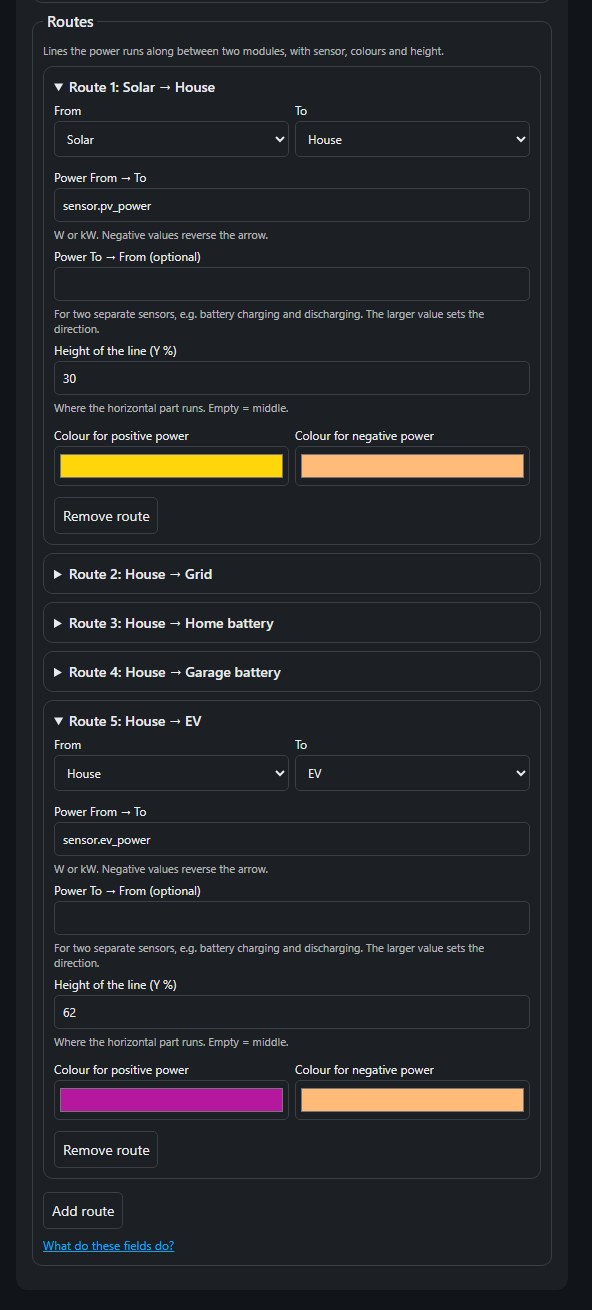
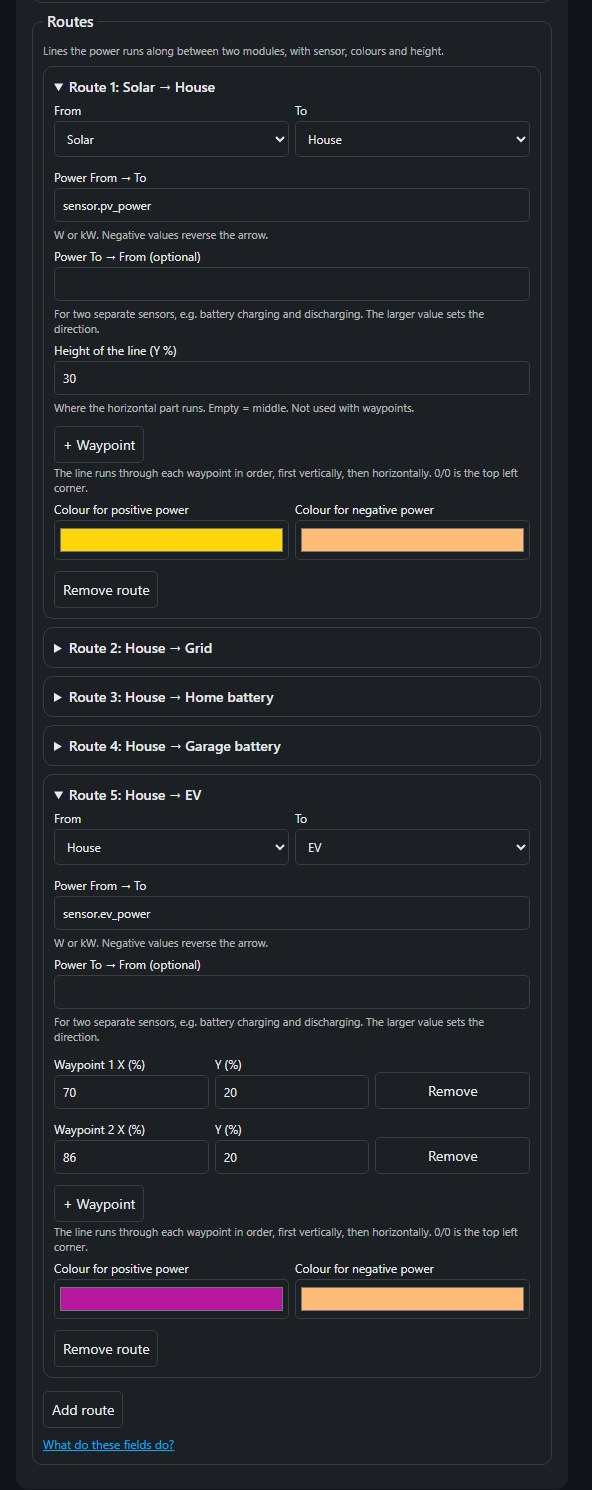
Route waypoints, room label names, simpler entity fields (0.33.0)
- Routes take any number of waypoints (points: [{x, y}] in %); the line
  runs through them at right angles
- Rooms: optional room name row in the label, own name per entity and
  name on/off per entity (names, showNames, showRoomName)
- Editor: area/device filters removed, all entities are suggested and
  the text input narrows them; weather and vehicle sensors one below
  the other; fields in a row align at the top
- README and example pictures updated

Claude-Session: https://claude.ai/code/session_016kjt6bPp7oqnfqhW3oJgZ4

diff --git a/dist/dynamic-energy-house-card.js b/dist/dynamic-energy-house-card.js
@@ -1,5 +1,5 @@
 // Energy House Card · native Home Assistant dashboard component
-const ENERGY_HOUSE_VERSION = "0.32.0";
+const ENERGY_HOUSE_VERSION = "0.33.0";
 const DOCS_URL = "https://github.com/pfalzcraft/dynamic-energy-house-card";
 const TYPES = {house:"House",grid:"Grid",pv:"Solar",battery:"Battery",ev:"Vehicle",water:"Water",room:"Room",climate:"Grid CO₂",device:"Device"};
 const COLORS = {house:"#f4bd86",grid:"#a7bbf0",pv:"#f2ce72",battery:"#80dbc2",ev:"#86cfef",water:"#93d3f5",room:"#d9c6aa",climate:"#c1d2b1",device:"#e7a9d6"};
@@ -319,11 +319,13 @@ function photoScene(c,states,history={},previousLevels={}){
     // Room: one row per entity, stacked; a tap on a row opens that entity's HA dialog.
     if(n.kind==="room"&&labelled(n)&&roomEntities(n).length){
       const ids=[n.entity,...roomEntities(n)].filter(Boolean);
-      const rows=ids.map(id=>{const name=states[id]?.attributes.friendly_name||id,v=id===n.entity?reading(states[id]):roomSummary({kind:"room",entities:[id]},states);
-        return [id,name,ids.length>1?`${name.slice(0,16)} ${v}`:v];});
+      const rows=ids.map(id=>{const name=entityName(n,id,states),v=id===n.entity?reading(states[id]):roomSummary({kind:"room",entities:[id]},states);
+        // Without a choice the name is shown when the room has several entities.
+        return [id,name,(n.showNames?.[id]??ids.length>1)?`${n.names?.[id]?name:name.slice(0,16)} ${v}`:v];});
+      if(n.showRoomName==="yes")rows.unshift(["",n.name||"",n.name||""]);
       const width=Math.min(285,Math.max(...rows.map(([,,v])=>20+[...v].length*9.5)));
       const left=Math.max(2,Math.min(898-width,x-width/2)),top=Math.max(2,Math.min(H-34*rows.length,y-1-34*rows.length));
-      return hit(n,`<path d="M${x} ${y}v-8" stroke="white"/>`+rows.map(([id,name,v],i)=>`<foreignObject x="${left}" y="${top+i*34}" width="${width}" height="32"><div xmlns="http://www.w3.org/1999/xhtml" class="pinlabel" data-more="${esc(id)}" title="${esc(name)}"><span>${esc(v)}</span></div></foreignObject>`).join(""));
+      return hit(n,`<path d="M${x} ${y}v-8" stroke="white"/>`+rows.map(([id,name,v],i)=>`<foreignObject x="${left}" y="${top+i*34}" width="${width}" height="32"><div xmlns="http://www.w3.org/1999/xhtml" class="pinlabel" ${id?`data-more="${esc(id)}"`:""} title="${esc(name)}"><span>${esc(v)}</span></div></foreignObject>`).join(""));
     }
     if(labelled(n)){
       const text=m=>{const show=m.showState==="yes"||(m.showState==null&&(m.pinText||m.showName==="yes"));
@@ -448,14 +450,16 @@ function waterText(n,totals){
   return n.waterUnit==="L"?pretty(v*1000,1)+" L":pretty(v,3)+" m³";
 }
 // Orthogonal elbow: vertical at both ends, horizontal in between, at the route's own height
-// (y in % of the picture) or halfway. Routes may share lines.
+// (y in % of the picture) or halfway, or through the route's waypoints. Routes may share lines.
 function directPaths(routes,where,H=600){
   const paths=new Map();
   for(const r of routes){
     if(!routeMeasured(r)||r.from===r.to||!where.has(r.from)||!where.has(r.to))continue;
     const a=where.get(r.from),b=where.get(r.to),own=parseFloat(r.y);
     const mid=Number.isFinite(own)?Math.min(98,Math.max(2,own))*H/100:(a[1]+b[1])/2;
-    paths.set(r,`M${a[0]} ${a[1]} V${mid} H${b[0]} V${b[1]}`);
+    // Waypoints (x/y in %) are reached vertically, then horizontally; the line leaves and enters modules vertically.
+    const pts=(r.points||[]).map(p=>[parseFloat(p.x),parseFloat(p.y)]).filter(p=>p.every(Number.isFinite)).map(([x,y])=>[Math.min(98,Math.max(2,x))*9,Math.min(98,Math.max(2,y))*H/100]);
+    paths.set(r,pts.length?`M${a[0]} ${a[1]} ${pts.map(([x,y])=>`V${y} H${x}`).join(" ")} H${b[0]} V${b[1]}`:`M${a[0]} ${a[1]} V${mid} H${b[0]} V${b[1]}`);
   }
   return paths;
 }
@@ -507,6 +511,7 @@ function weatherLine(c,s){
   return parts.join(" · ");
 }
 const roomEntities=n=>n.kind==="room"?(n.entities||[]).filter(Boolean):[];
+const entityName=(n,id,s)=>n.names?.[id]||s[id]?.attributes.friendly_name||id;
 // group.* is unpacked into its members, light and cover groups count their members themselves.
 const members=(id,s)=>{const list=s[id]?.attributes.entity_id;return Array.isArray(list)?list:[id]};
 function roomSummary(n,s){
@@ -527,7 +532,7 @@ function roomSummary(n,s){
 // One button per room entity: switch it or open/close it, everything else opens its HA dialog.
 function roomButtons(n,s,busy){
   return roomEntities(n).map(id=>{
-    const st=s[id],name=esc(st?.attributes.friendly_name||id),off=busy||!st?"disabled":"";
+    const st=s[id],name=esc(entityName(n,id,s)),off=busy||!st?"disabled":"";
     if(id.startsWith("cover."))return `<button data-entity="${esc(id)}" data-service="cover.open_cover" ${off}>${name} ▲</button><button data-entity="${esc(id)}" data-service="cover.close_cover" ${off}>${name} ▼</button>`;
     if(/^(light|switch|fan|input_boolean|group)\./.test(id))return `<button data-entity="${esc(id)}" data-service="homeassistant.toggle" aria-pressed="${st?.state==="on"}" ${off}>${name}: ${st?.state==="on"?"on":"off"}</button>`;
     return `<button data-more="${esc(id)}">${name}</button>`;
@@ -742,7 +747,7 @@ class EnergyHouse extends HTMLElement{
   }
 }
 const editorCss=`
-:host{display:block;color:var(--primary-text-color,#243830);font:14px system-ui}fieldset,details{border:1px solid var(--divider-color,#b2c3b9);border-radius:10px;margin:8px 0;padding:10px}summary{cursor:pointer;font-weight:600}label{display:grid;gap:3px;font-size:12px;margin:6px 0}input,select,button{font:inherit;color:inherit;background:var(--card-background-color,#fff);padding:8px;border-radius:5px;border:1px solid var(--divider-color,#a7b5ac);max-width:100%;box-sizing:border-box}button{cursor:pointer;margin:5px 4px 0 0}.pair{display:grid;grid-template-columns:repeat(auto-fit,minmax(135px,1fr));gap:6px}.pair>label{min-width:0}label>input,label>select{width:100%}input[type=color]{height:40px;padding:3px}small{display:block;margin:5px 0}.hint{opacity:.72;font-size:11px;margin:2px 0 0}details.section>summary{font-size:15px}details.sub{padding:6px 10px;margin:6px 0}details.sub>summary{font-weight:500;font-size:13px}legend{font-weight:600;font-size:15px;padding:0 4px}a{color:var(--primary-color,#03a9f4)}a.help{display:block;font-size:12px;margin:8px 0 2px}`;
+:host{display:block;color:var(--primary-text-color,#243830);font:14px system-ui}fieldset,details{border:1px solid var(--divider-color,#b2c3b9);border-radius:10px;margin:8px 0;padding:10px}summary{cursor:pointer;font-weight:600}label{display:grid;align-content:start;gap:3px;font-size:12px;margin:6px 0}.entity{border-top:1px solid var(--divider-color,#b2c3b9);margin-top:8px;padding-top:4px}input,select,button{font:inherit;color:inherit;background:var(--card-background-color,#fff);padding:8px;border-radius:5px;border:1px solid var(--divider-color,#a7b5ac);max-width:100%;box-sizing:border-box}button{cursor:pointer;margin:5px 4px 0 0}.pair{display:grid;grid-template-columns:repeat(auto-fit,minmax(135px,1fr));gap:6px}.pair>label{min-width:0}.pair>button{align-self:end;margin:0 0 6px}label>input,label>select{width:100%}input[type=color]{height:40px;padding:3px}small{display:block;margin:5px 0}.hint{opacity:.72;font-size:11px;margin:2px 0 0}details.section>summary{font-size:15px}details.sub{padding:6px 10px;margin:6px 0}details.sub>summary{font-weight:500;font-size:13px}legend{font-weight:600;font-size:15px;padding:0 4px}a{color:var(--primary-color,#03a9f4)}a.help{display:block;font-size:12px;margin:8px 0 2px}`;
 class HouseEditor extends HTMLElement{
   constructor(){super();this.root=this.attachShadow({mode:"open"});this.root.addEventListener("change",e=>this.change(e));this.root.addEventListener("click",e=>this.click(e));this.open=new Set(["general"]);}
   setConfig(c){if(JSON.stringify(this.c)===JSON.stringify(c))return;this.c=structuredClone({...stub(),...c});this.draw()}
@@ -758,38 +763,35 @@ class HouseEditor extends HTMLElement{
     const details=(key,title,content,attr="",sub=false)=>`<details data-key="${esc(key)}" ${sub?'class="sub"':""} ${attr} ${this.open.has(key)?"open":""}><summary>${esc(title)}</summary>${content}</details>`;
     const section=(key,title,content)=>details(key,title,content,'class="section"');
     const helpLink=anchor=>`<a class="help" href="${DOCS_URL}#${anchor}" target="_blank" rel="noreferrer">What do these fields do?</a>`;
-    const states=Object.keys(h.states), areas=Object.values(h.areas||{}),devices=Object.values(h.devices||{}), ent=h.entities||{};
-    const areaOf=id=>ent[id]?.area_id || h.devices?.[ent[id]?.device_id]?.area_id;
+    const states=Object.keys(h.states);
     const colors=obj=>[["positiveColor","Colour for positive power",1],["negativeColor","Colour for negative power",-1]].map(([key,title,sign])=>`<label>${title}<input type="color" data-key="${key}" value="${routeColor(obj,sign)}"></label>`).join("");
     const modules=c.nodes.map((n,i)=>{
-      const devs=devices.filter(d=>!n.area||d.area_id===n.area||Object.values(ent).some(e=>e.device_id===d.id&&e.area_id===n.area));
-      const ids=states.filter(id=>(!n.area||areaOf(id)===n.area)&&(!n.device||ent[id]?.device_id===n.device));
+      const ids=states;
       const electric=["pv","ev","grid","device"].includes(n.kind);
       const lid="s"+i,pct=list(lid+"pct",ids.filter(id=>h.states[id].attributes.unit_of_measurement==="%")),kwh=list(lid+"kwh",ids.filter(id=>["Wh","kWh","MWh"].includes(h.states[id].attributes.unit_of_measurement)));
       const meter=(label,key)=>field(label,key,n[key],lid+"kwh","Energy meter in Wh or kWh that only counts up. Used for every period except “Now”.");
-      const filter=n.kind==="house"?"":'<div class="pair">'+choose("Suggest entities from area","area",n.area||"",[["","All areas"],...areas.map(a=>[a.area_id,a.name])])+choose("… and device","device",n.device||"",[["","All devices"],...devs.map(d=>[d.id,d.name_by_user||d.name||d.id])])+"</div>";
       const readings=
         n.kind==="house"?hint("No sensor needed. House consumption = solar + grid import − export + battery discharge − battery charge − vehicle charging. The tile shows how much of it no device explains (“Unassigned”)."):
         n.kind==="battery"?field("State of charge","soc",n.soc,lid+"pct","Sensor in %.")+meter("Charged · energy meter","charged")+meter("Discharged · energy meter","discharged")+hint("Live charging power comes from the routes that start or end at this battery.")+pct+kwh:
         n.kind==="climate"?field("Fossil share of grid power","entity",n.entity,lid+"pct","Sensor in % from the “Electricity Maps” integration (as in the HA energy dashboard).")+field("CO₂ intensity (optional)","co2",n.co2,lid,"Shown as an extra line in the tile.")+hint("Shows how much of the house consumption was low-carbon. Needs the import meter on the grid module.")+pct+list(lid,ids):
         n.kind==="room"?choose("Floor","floor",n.floor||"EG",[["UG","Basement"],["EG","Ground floor"],["OG","Upper floor"],["DG","Attic"],...(n.floor&&!["UG","EG","OG","DG"].includes(n.floor)?[[n.floor,n.floor]]:[])],"Places the room in the picture and in the schematic floor plan.")+
-          (n.entities||[]).map((id,j)=>`<div class="pair"><label>Entity or group<input data-ent="${j}" value="${esc(id)}" list="${lid}room"></label><button data-delent="${j}">Remove</button></div>`).join("")+
-          '<button data-addent>+ Entity</button>'+hint("Lights, covers, switches, climate or sensors, or groups of them. The label shows lights on, average cover position and temperatures. Tapping the room dot switches its lights and covers.")+
-          // Groups often have no area, so they are offered in every room.
-          list(lid+"room",states.filter(id=>/^(light|cover|group|switch|fan|climate|sensor|input_boolean)\./.test(id)&&(!n.area||!areaOf(id)||areaOf(id)===n.area))):
+          choose("Room name in the label","showRoomName",n.showRoomName||"no",[["no","Off"],["yes","On"]],"Adds the display name as the first row of the room label.")+
+          (n.entities||[]).map((id,j)=>`<div class="entity"><label>Entity or group ${j+1}<input data-ent="${j}" value="${esc(id)}" list="${lid}room"></label><div class="pair"><label>Name in the label<input data-entname="${j}" value="${esc(n.names?.[id]||"")}" placeholder="${esc(h.states[id]?.attributes.friendly_name||"")}"></label><label>Show name<select data-entshow="${j}">${[["","Automatic"],["yes","On"],["no","Off"]].map(([v,l])=>`<option value="${v}" ${(n.showNames?.[id]===true?"yes":n.showNames?.[id]===false?"no":"")===v?"selected":""}>${l}</option>`).join("")}</select></label></div><button data-delent="${j}">Remove entity</button></div>`).join("")+
+          '<button data-addent>+ Entity</button>'+hint("Lights, covers, switches, climate or sensors, or groups of them. The label shows lights on, average cover position and temperatures. An empty name uses the HA name; “Automatic” shows names when the room has several entities.")+
+          list(lid+"room",states.filter(id=>/^(light|cover|group|switch|fan|climate|sensor|input_boolean)\./.test(id))):
         n.kind==="water"?field("Water meter or flow sensor","entity",n.entity,lid,"A meter (m³ or L, counting up) gives the consumption per period, a flow sensor the current flow.")+list(lid,ids)+
           '<div class="pair">'+choose("Show","waterMode",n.waterMode||"",[["","Automatic"],["period","Consumption in the period"],["live","Sensor value"]])+choose("Unit","waterUnit",n.waterUnit||"m³",[["m³","m³"],["L","Litres"]])+"</div>":
         field("Power","entity",n.entity,lid,{grid:"W or kW, positive for import and negative for export.",pv:"Production in W or kW.",ev:"Charging power in W or kW, positive while charging.",device:"Consumption in W or kW."}[n.kind])+list(lid,ids)+
           meter({grid:"Import · energy meter",pv:"Production · energy meter",ev:"Charged · energy meter (optional)",device:"Consumption · energy meter (optional)"}[n.kind],"energy")+
           (n.kind==="grid"?meter("Export · energy meter","exported"):"")+
-          (n.kind==="ev"?field("State of charge (optional)","soc",n.soc,lid,"Shown in the picture label and the tile.")+'<div class="pair">'+field("Battery content (optional)","content",n.content,lid,"kWh or %. Rises count as charged, drops as driven.")+field("Battery capacity in kWh","capacity",n.capacity,"","Only needed when the content is in %.")+"</div>":"")+
+          (n.kind==="ev"?field("State of charge (optional)","soc",n.soc,lid,"Shown in the picture label and the tile.")+field("Battery content (optional)","content",n.content,lid,"kWh or %. Rises count as charged, drops as driven.")+field("Battery capacity in kWh","capacity",n.capacity,"","Only needed when the content is in %."):"")+
           (n.kind==="device"?choose("Show in the picture","scene",n.scene||"",[["","Label only"],["heatpump","Heat pump"],["washer","Washing machine (basement)"],["dryer","Dryer (basement)"]],"Draws the device in the 3D house with basement.")+hint("Devices are part of the house consumption and are not used to calculate it."):"")+kwh;
       const label=field("Icon","icon",n.icon,"pinIcons","An mdi: icon. With an icon or “Show value” the module gets a label in the picture.")+
         choose("Show value","showState",n.showState??(n.pinText||n.showName==="yes"?"yes":"no"),[["no","Off"],["yes","On"]])+
         '<div class="pair">'+field("Position X (%)","x",n.x)+field("Position Y (%)","y",n.y)+"</div>"+hint("Empty = default place. Needed for your own picture: 0/0 is the top left corner.");
       const advanced=(electric?choose("Sign","invert",n.invert?"yes":"no",[["no","As measured"],["yes","Invert"]],"Use “Invert” when your sensor reports the opposite direction."):"")+
         field("Control entity (optional)","control",n.control,"controls","A select, input_select, switch, script or button. Its options appear in the tile; select options are sent only after a second tap.");
-      const html=field("Display name","name",n.name)+filter+readings+
+      const html=field("Display name","name",n.name)+readings+
         details(n.id+":label","Label in the picture",label,"",true)+details(n.id+":more","More options",advanced,"",true)+
         '<button data-delete>Remove module</button>'+helpLink(TYPES[n.kind].toLowerCase().replace("₂","2").replace(/ /g,"-")+"-module");
       return details(n.id,!n.name||n.name===TYPES[n.kind]?TYPES[n.kind]:n.name+" · "+TYPES[n.kind],html,`data-index="${i}"`);
@@ -799,7 +801,9 @@ class HouseEditor extends HTMLElement{
       '<div class="pair">'+choose("From","from",r.from,names)+choose("To","to",r.to,names)+"</div>"+
       field("Power From → To","entity",r.entity,"powerIds","W or kW. Negative values reverse the arrow.")+
       field("Power To → From (optional)","reverse",r.reverse,"powerIds","For two separate sensors, e.g. battery charging and discharging. The larger value sets the direction.")+
-      field("Height of the line (Y %)","y",r.y,"","Where the horizontal part runs. Empty = middle.")+
+      (r.points?.length?"":field("Height of the line (Y %)","y",r.y,"","Where the horizontal part runs. Empty = middle. Not used with waypoints."))+
+      (r.points||[]).map((p,j)=>`<div class="pair"><label>Waypoint ${j+1} X (%)<input data-pt="${j}" data-axis="x" value="${esc(p.x??"")}"></label><label>Y (%)<input data-pt="${j}" data-axis="y" value="${esc(p.y??"")}"></label><button data-delpt="${j}">Remove</button></div>`).join("")+
+      '<button data-addpt>+ Waypoint</button>'+hint("The line runs through each waypoint in order, first vertically, then horizontally. 0/0 is the top left corner.")+
       '<div class="pair">'+colors(r)+"</div>"+'<button data-delroute>Remove route</button>',`data-route="${i}"`)).join("");
     const look=c.view==="diagram"?"diagram":c.look||"cellar";
     this.root.innerHTML=`<style>${editorCss}</style>
@@ -808,20 +812,26 @@ ${section("general","General",field("Card title","title",c.title)+choose("Defaul
 ${section("picture","Picture",choose("Picture style","look",look,[["cellar","3D · house with basement"],["photo","3D rendering"],["blueprint","Blueprint · gable roof"],["flat","Blueprint · flat roof"],["diagram","Schematic floor plan"],["custom","Own picture"]],"The 3D house with basement changes with the seasons and shows heat pump, washer and dryer. The floor plan arranges the rooms by floor.")+
   (look==="custom"?field("Picture URL","image",c.image,"","e.g. /local/house.webp in 3:2 format. Place modules with Position X/Y."):"")+
   choose("Preview buttons","preview",c.preview||"no",[["no","Off"],["yes","On"]],"Buttons below the picture to try time of day, weather and season.")+helpLink("picture-options"))}
-${section("sky","Weather and sky",'<div class="pair">'+field("Weather entity","weather",c.weather,"weatherIds","Clouds, rain, snow, fog, thunderstorms and wind.")+field("Sun","sun",c.sun,"sunIds","Day and night. Usually sun.sun.")+"</div>"+
-  '<div class="pair">'+field("Wind speed (optional)","windSpeed",c.windSpeed,"sensorIds")+field("Wind direction (optional)","windDirection",c.windDirection,"sensorIds")+field("Precipitation (optional)","precipitation",c.precipitation,"sensorIds")+"</div>"+
-  hint("Only needed when you have own sensors; otherwise the weather entity is used.")+helpLink("weather-and-sky-options"))}
+${section("sky","Weather and sky",field("Weather entity","weather",c.weather,"weatherIds","Clouds, rain, snow, fog, thunderstorms and wind.")+field("Sun","sun",c.sun,"sunIds","Day and night. Usually sun.sun.")+
+  field("Wind speed (optional)","windSpeed",c.windSpeed,"sensorIds","Own sensor; otherwise the weather entity's wind is used.")+field("Wind direction (optional)","windDirection",c.windDirection,"sensorIds","In ° or as text.")+field("Precipitation (optional)","precipitation",c.precipitation,"sensorIds","Shown in the weather line.")+helpLink("weather-and-sky-options"))}
 <fieldset><legend>Modules</legend>${hint("Each module adds its part to the picture and a tile below it. Open a module to set its sensors.")}${modules}<select aria-label="New module" data-kind>${Object.entries(TYPES).filter(([k])=>!["house","grid","pv"].includes(k)||!c.nodes.some(n=>n.kind===k)).map(([k,v])=>`<option value="${k}">${v}</option>`).join("")}</select><button data-add>Add module</button></fieldset>
 <fieldset><legend>Routes</legend>${hint("Lines the power runs along between two modules, with sensor, colours and height.")}${routes}<button data-addroute ${names.length<2?"disabled":""}>Add route</button>${helpLink("route-fields")}</fieldset>
 ${list("energyIds",states.filter(id=>["Wh","kWh","MWh"].includes(h.states[id].attributes.unit_of_measurement)))}${list("pinIcons",["mdi:battery","mdi:solar-power","mdi:home","mdi:car-electric","mdi:water","mdi:thermometer","mdi:heat-pump-outline","mdi:washing-machine"])}${list("sensorIds",states.filter(id=>id.startsWith("sensor.")))}${list("sunIds",states.filter(id=>id.startsWith("sun.")))}${list("weatherIds",states.filter(id=>id.startsWith("weather.")))}${list("powerIds",states.filter(id=>["W","kW","MW"].includes(h.states[id].attributes.unit_of_measurement)))}${list("controls",states.filter(id=>/^(select|input_select|switch|script|button)\./.test(id)))}`;
   }
   change(e){const t=e.target,k=t.dataset.key;
-    if(t.dataset.ent){const n=this.c.nodes[+t.closest("[data-index]").dataset.index];n.entities[+t.dataset.ent]=t.value.trim();this.save();return;}
+    if(t.dataset.ent){const n=this.c.nodes[+t.closest("[data-index]").dataset.index],j=+t.dataset.ent,old=n.entities[j],id=t.value.trim();n.entities[j]=id;
+      // Name settings follow the entity when it is replaced.
+      for(const k of ["names","showNames"])if(n[k]&&old in n[k]){if(id)n[k][id]=n[k][old];delete n[k][old];}
+      this.save();return;}
+    if(t.dataset.entname||t.dataset.entshow){const n=this.c.nodes[+t.closest("[data-index]").dataset.index],id=n.entities[+(t.dataset.entname||t.dataset.entshow)],v=t.value.trim();
+      const k=t.dataset.entname?"names":"showNames",val=t.dataset.entname?v:v==="yes"?true:v==="no"?false:"";
+      n[k]={...n[k]};if(val==="")delete n[k][id];else n[k][id]=val;if(!Object.keys(n[k]).length)delete n[k];
+      this.save();return;}
+    if(t.dataset.pt){const r=this.c.routes[+t.closest("[data-route]").dataset.route];r.points[+t.dataset.pt][t.dataset.axis]=t.value.trim();this.save();return;}
     if(!k)return;
     const item=t.closest("[data-index]"),route=t.closest("[data-route]");
     const obj=item?this.c.nodes[+item.dataset.index]:route?this.c.routes[+route.dataset.route]:this.c;
     if(k==="look"&&obj===this.c){if(t.value==="diagram")obj.view="diagram";else{delete obj.view;obj.look=t.value}this.save();return;}
-    if(k==="area" && obj.area!==t.value)obj.device="";
     obj[k]=k==="invert"?t.value==="yes":t.value.trim();this.save();}
   click(e){const t=e.target;if(!t.matches("button"))return;
     if(t.hasAttribute("data-add")){const kind=this.root.querySelector("[data-kind]").value,id=kind+"_"+Math.random().toString(36).slice(2,10);this.c.nodes.push({id,kind,name:TYPES[kind]});this.open.add(id)}
@@ -830,7 +840,10 @@ ${list("energyIds",states.filter(id=>["Wh","kWh","MWh"].includes(h.states[id].at
     if(t.hasAttribute("data-delroute"))this.c.routes.splice(+t.closest("details").dataset.route,1);
     const room=t.closest("[data-index]")&&this.c.nodes[+t.closest("[data-index]").dataset.index];
     if(t.hasAttribute("data-addent"))room.entities=[...(room.entities||[]),""];
-    if(t.dataset.delent)room.entities.splice(+t.dataset.delent,1);
+    if(t.dataset.delent){const [id]=room.entities.splice(+t.dataset.delent,1);for(const k of ["names","showNames"])if(room[k]){delete room[k][id];if(!Object.keys(room[k]).length)delete room[k];}}
+    const route=t.closest("[data-route]")&&this.c.routes[+t.closest("[data-route]").dataset.route];
+    if(t.hasAttribute("data-addpt")){const p=route.points?.at(-1);route.points=[...(route.points||[]),{x:p?.x??"50",y:p?.y??"50"}]}
+    if(t.dataset.delpt){route.points.splice(+t.dataset.delpt,1);if(!route.points.length)delete route.points}
     this.save();}
 }
 // HA may cache the resource URL. On each page load, register the fresh module first.

diff --git a/README.md b/README.md
@@ -16,7 +16,7 @@ Rooms take any number of entities or groups: lights and light groups, covers and
 
 ## Routes and colours are yours
 
-Routes are the lines the power runs along. You decide which modules they connect, which sensor measures them (one per direction if needed), the colour for positive and negative power, and the height of the horizontal line in the picture.
+Routes are the lines the power runs along. You decide which modules they connect, which sensor measures them (one per direction if needed), the colour for positive and negative power, and where the line runs: at a height you choose or through any number of waypoints.
 
 ![Custom route colours and positions](https://raw.githubusercontent.com/pfalzcraft/dynamic-energy-house-card/main/docs/routes.jpg)
 
@@ -98,12 +98,11 @@ All fields can be set in the editor. The YAML key is given for people who prefer
 
 ### Common module fields
 
-Every module is an entry in `nodes` with a unique `id` and a `kind`.
+Every module is an entry in `nodes` with a unique `id` and a `kind`. Entity fields suggest all matching entities from Home Assistant; type part of the ID or name to narrow the list.
 
 | Field | YAML | What it does |
 |---|---|---|
 | Display name | `name` | Name in the picture label and the tile. |
-| Suggest entities from area / device | `area`, `device` | Only narrows the entity suggestions in the editor. Entity IDs can always be typed in. |
 | **Label in the picture** → Icon | `icon` | An `mdi:` icon. With an icon or *Show value* the module gets a label in the picture. |
 | Show value | `showState` | `yes` shows the current value in the label. |
 | Position X / Y (%) | `x`, `y` | Moves the module's point in the picture. Empty = default place. Needed for an own picture; 0/0 is the top left corner. |
@@ -175,7 +174,10 @@ Any number, e.g. heat pump, washer, dryer, fridge or office. Devices are part of
 | Field | YAML | What it does |
 |---|---|---|
 | Floor | `floor` | `UG` basement, `EG` ground floor, `OG` upper floor, `DG` attic. Places the room in the picture and the floor plan. |
+| Room name in the label | `showRoomName` | `yes` adds the display name as the first row of the room label. |
 | Entity or group | `entities` | Lights, covers, switches, climate or sensors, or groups of them. Each gets a row in the label (lights on, average cover position, temperature). Tap a row to open its HA dialog; tap the room dot to switch its lights and covers. |
+| Name in the label | `names` | Own short name per entity, e.g. `names: {light.living_group: Ceiling}`. Empty = the HA name. |
+| Show name | `showNames` | Per entity `true` or `false`. Without a choice names are shown when the room has several entities. |
 
 ### Grid CO2 module
 
@@ -195,10 +197,11 @@ Routes (`routes`) are the lines the power runs along.
 | From / To | `from`, `to` | The module IDs the line connects. |
 | Power From → To | `entity` | W or kW. Negative values reverse the arrow. |
 | Power To → From | `reverse` | Optional second sensor, e.g. battery charging and discharging. The larger value sets the direction. |
-| Height of the line (Y %) | `y` | Where the horizontal part runs. Empty = middle. |
+| Height of the line (Y %) | `y` | Where the horizontal part runs. Empty = middle. Not used with waypoints. |
+| Waypoints | `points` | Any number of points (`x`, `y` in %) the line runs through in order, e.g. `points: [{x: 70, y: 20}, {x: 86, y: 20}]`. Each one is reached first vertically, then horizontally; 0/0 is the top left corner. |
 | Colour for positive / negative power | `positiveColor`, `negativeColor` | Line colours per direction. |
 
-Routes run at right angles: vertically out of the module, horizontally at the height you set, vertically into the target. They may share lines. At 0 W or without a reading the line stays still; below 5 W the animation stops while the value stays visible. The card does not split surplus across routes by calculation.
+Routes run at right angles: vertically out of the module, horizontally at the height you set (or through the waypoints), vertically into the target. They may share lines. At 0 W or without a reading the line stays still; below 5 W the animation stops while the value stays visible. The card does not split surplus across routes by calculation.
 
 ### Periods and controls
 
